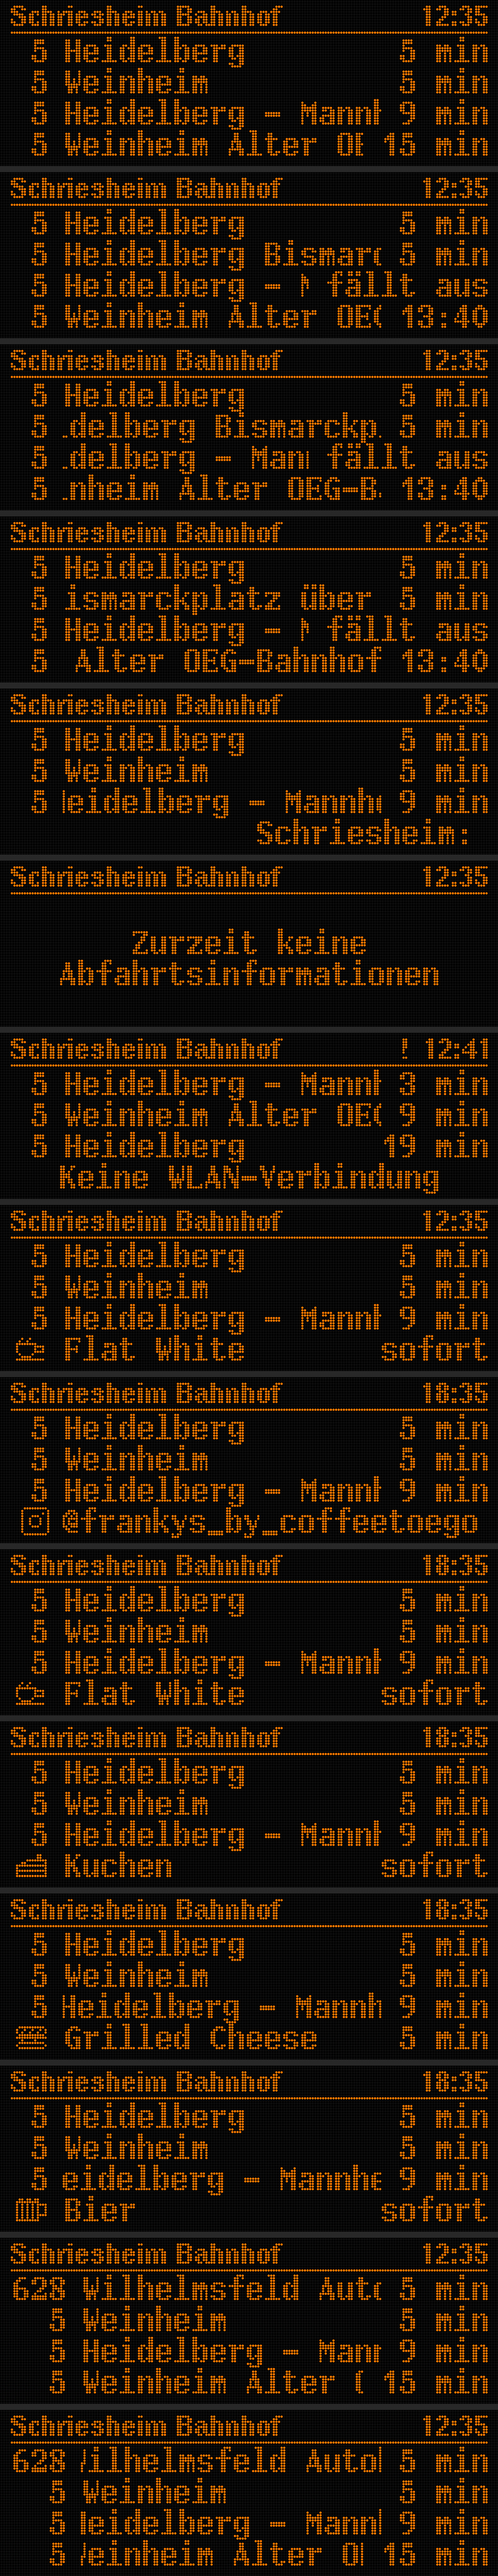
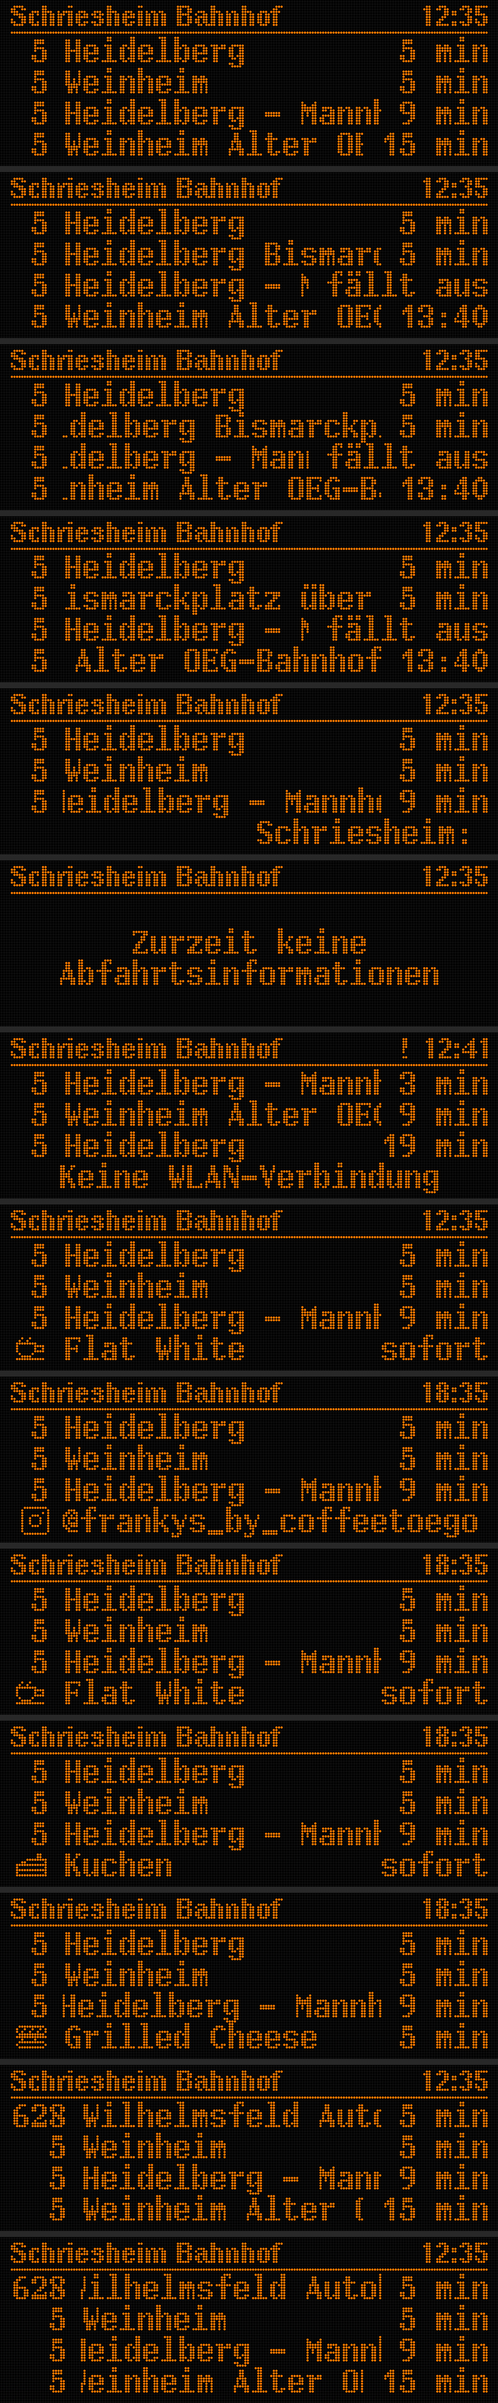
Promo läuft immer zu Ende, Busse immer animieren
Eine gestartete Promo bleibt PROMO_SHOW_S lang, auch wenn die 4. Abfahrt
näher als PROMO_MIN_MINUTES rückt. Bus-Abfahrten nutzen
DEPART_ANIM_CHANCE_BUS (Standard: immer).

Changed region(s): [[0.0, 0.0, 1.0, 0.996]]

diff --git a/src/render.cpp b/src/render.cpp
@@ -93,7 +93,9 @@ static void checkDeparted(const Departure* const* rows, int n, time_t now, uint3
       left++;
       row = j;
     }
-    if (left == 1 && animChance > 0 && rand() % animChance == 0) {
+    // Buses are rare here, so they get their own (higher) chance
+    int chance = left == 1 && animChance > 0 && prevRows[row].cls > 4 ? DEPART_ANIM_CHANCE_BUS : animChance;
+    if (left == 1 && chance > 0 && rand() % chance == 0) {
       anim.active = true;
       anim.dep = prevRows[row];
       anim.row = row;
@@ -224,6 +226,7 @@ static struct {
   uint32_t next = 0;   // ms of the next showing, 0 = not scheduled yet
   uint32_t start = 0;
   int idx = -1;        // -1 = not showing
+  const char* text = nullptr;  // PROMOS[idx] without its "@HH" prefix
 } promo;
 
 static int forcedPromo = -1;
@@ -235,22 +238,19 @@ static uint32_t promoPause() {  // PROMO_INTERVAL_S +-50 %
 }
 
 // Returns the promo text to show in the 4th row this frame, or nullptr.
-// `eligible`: the 4th row is free for it (its departure is far enough away).
+// `canStart`: a new promo may take the 4th row (its departure is far enough
+// away). A running one stays its full PROMO_SHOW_S even if that departure
+// gets close, unless `blocked` (the row is needed for the ticker or the
+// departure animation).
 // `hour`: local hour for "@HH" windows, -1 if the time isn't known.
-static const char* promoText(bool eligible, int hour, uint32_t ms) {
+static const char* promoText(bool canStart, bool blocked, int hour, uint32_t ms) {
   if (N_PROMOS == 0 || PROMO_INTERVAL_S <= 0) return nullptr;
-  if (promo.idx >= 0 && ms - promo.start >= PROMO_SHOW_S * 1000UL) {
+  if (promo.idx >= 0 && (blocked || ms - promo.start >= PROMO_SHOW_S * 1000UL)) {
     promo.idx = -1;
     promo.next = ms + promoPause();
   }
-  if (!eligible) {
-    if (promo.idx >= 0) {  // a departure got close, give the row back
-      promo.idx = -1;
-      promo.next = ms + promoPause();
-    }
-    return nullptr;
-  }
   if (promo.idx < 0) {
+    if (!canStart || blocked) return nullptr;
     if (promo.next == 0) promo.next = ms + promoPause();
     if ((int32_t)(ms - promo.next) < 0) return nullptr;
     int open[N_PROMOS > 0 ? N_PROMOS : 1], nOpen = 0;
@@ -263,13 +263,9 @@ static const char* promoText(bool eligible, int hour, uint32_t ms) {
     promo.idx = forcedPromo >= 0 && promoWindow(PROMOS[forcedPromo], hour) ? forcedPromo
                                                                             : open[rand() % nOpen];
     promo.start = ms;
+    promo.text = promoWindow(PROMOS[promo.idx], hour);
   }
-  const char* text = promoWindow(PROMOS[promo.idx], hour);
-  if (!text) {  // its window closed while showing
-    promo.idx = -1;
-    promo.next = ms + promoPause();
-  }
-  return text;
+  return promo.text;  // stays even if its time window closes meanwhile
 }
 
 static void drawPromo(Adafruit_GFX& g, U8G2_FOR_ADAFRUIT_GFX& u8, uint16_t color, int base,
@@ -376,18 +372,17 @@ void renderFrame(Adafruit_GFX& g, U8G2_FOR_ADAFRUIT_GFX& u8, uint16_t color, con
   }
 
   // Now and then a promo text replaces the 4th row while that departure is
-  // still a while away
+  // still a while away; once started it stays PROMO_SHOW_S
   int hour = -1;
   if (st.timeValid) {
     struct tm lt;
     localtime_r(&now, &lt);
     hour = lt.tm_hour;
   }
-  const char* promoMsg = promoText(n == MAX_ROWS + 1 && animRow != MAX_ROWS &&
-                                       minutesUntil(rows[MAX_ROWS]->when, now) >= PROMO_MIN_MINUTES,
-                                   hour, ms);
+  const char* promoMsg = promoText(n == MAX_ROWS + 1 && minutesUntil(rows[MAX_ROWS]->when, now) >= PROMO_MIN_MINUTES,
+                                   tickerMsg || animRow == MAX_ROWS, hour, ms);
   const int nLineW = n;  // the hidden 4th row still reserves its line width
-  if (promoMsg) n = MAX_ROWS;
+  if (promoMsg && n > MAX_ROWS) n = MAX_ROWS;
   PromoDep promoDep;
   bool promoIsDep = promoMsg && splitPromoDep(promoMsg, promoDep);
 

diff --git a/include/config.h b/include/config.h
@@ -90,6 +90,7 @@
 // (src/depart_anim.cpp). Only if no other shown row leaves in the same minute.
 // 0 = never, 1 = always.
 #define DEPART_ANIM_CHANCE 5
+#define DEPART_ANIM_CHANCE_BUS 1   // same for buses (line 628 etc.)
 
 // Texts shown now and then instead of the 4th row, one picked at random.
 // Prefix "[ig]" puts the Instagram logo in front. "line|destination|time"
@@ -99,7 +100,7 @@
 #define PROMO_TEXTS { "[ig]@frankys_by_coffeetoego", \
                       "[fw]|Flat White|sofort", \
                       "[ku]|Kuchen|sofort", \
-                      "@12[gc]|Grilled Cheese|5 min"
+                      "@12[gc]|Grilled Cheese|5 min", \
                     }
 #define PROMO_INTERVAL_S   45   // average pause between showings (+-50 %), 0 = off
 #define PROMO_SHOW_S         15   // how long one text stays

diff --git a/src/render.h b/src/render.h
@@ -13,7 +13,8 @@ struct DisplayStatus {
 };
 
 // 1 in `oneIn` departures plays the departure animation, 0 = never.
-// Defaults to DEPART_ANIM_CHANCE; the preview sets 1 to force it.
+// Defaults to DEPART_ANIM_CHANCE (buses: DEPART_ANIM_CHANCE_BUS); the preview
+// sets 1 to force it. 0 turns it off for buses too.
 // Randomness comes from rand(), seed it once at start-up.
 void setDepartAnimChance(int oneIn);
 

diff --git a/README.md b/README.md
@@ -102,7 +102,7 @@ These tests need a host compiler. If you haven't accepted the Xcode license yet,
 | `!` next to the clock | no WiFi, or the data is more than 5 minutes old |
 | `Zurzeit keine Abfahrtsinformationen` | no departures, or the data is more than 60 minutes old |
 | Instagram logo + `@frankys_by_coffeetoego` in the 4th row | now and then for 8 s, only while that departure is ≥ 10 min away (`PROMO_*` in `config.h`) |
-| tram/bus driving out of a row | 1 in 5 departures, only if no other one leaves in the same minute: the two-car tram (or the bus) pulls away and drives out (`DEPART_ANIM_CHANCE`) |
+| tram/bus driving out of a row | 1 in 5 tram departures and every bus departure, only if no other one leaves in the same minute: the two-car tram (or the bus) pulls away and drives out (`DEPART_ANIM_CHANCE`, `DEPART_ANIM_CHANCE_BUS`) |
 
 ## 24/7 operation
 
